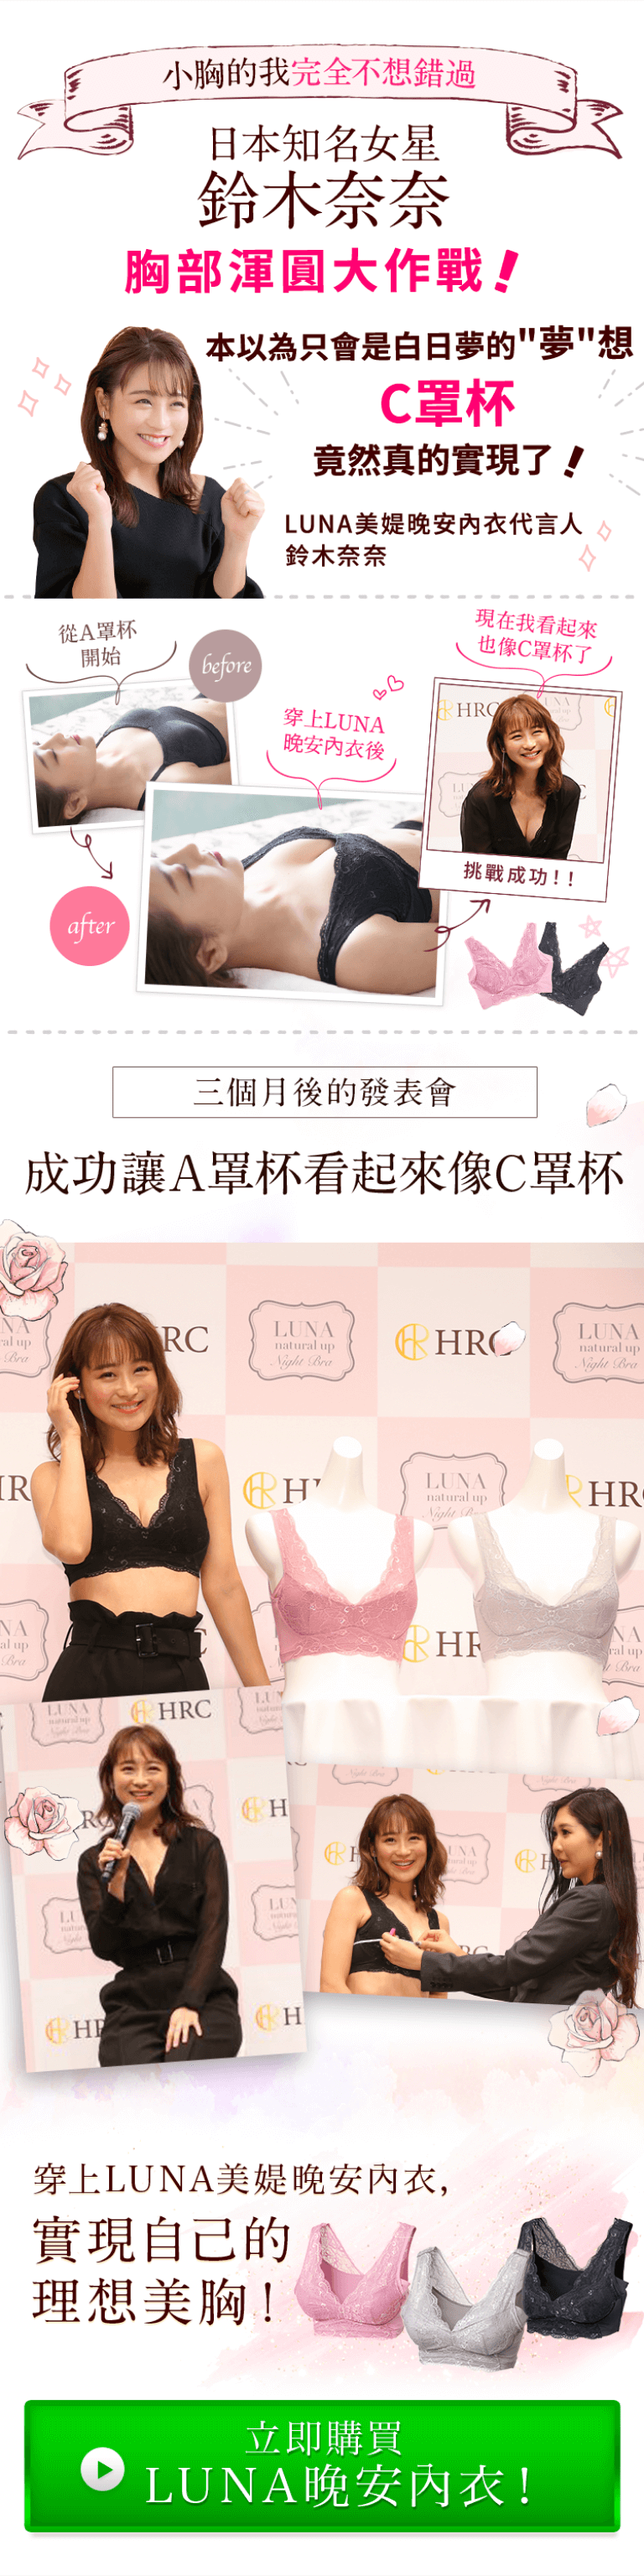
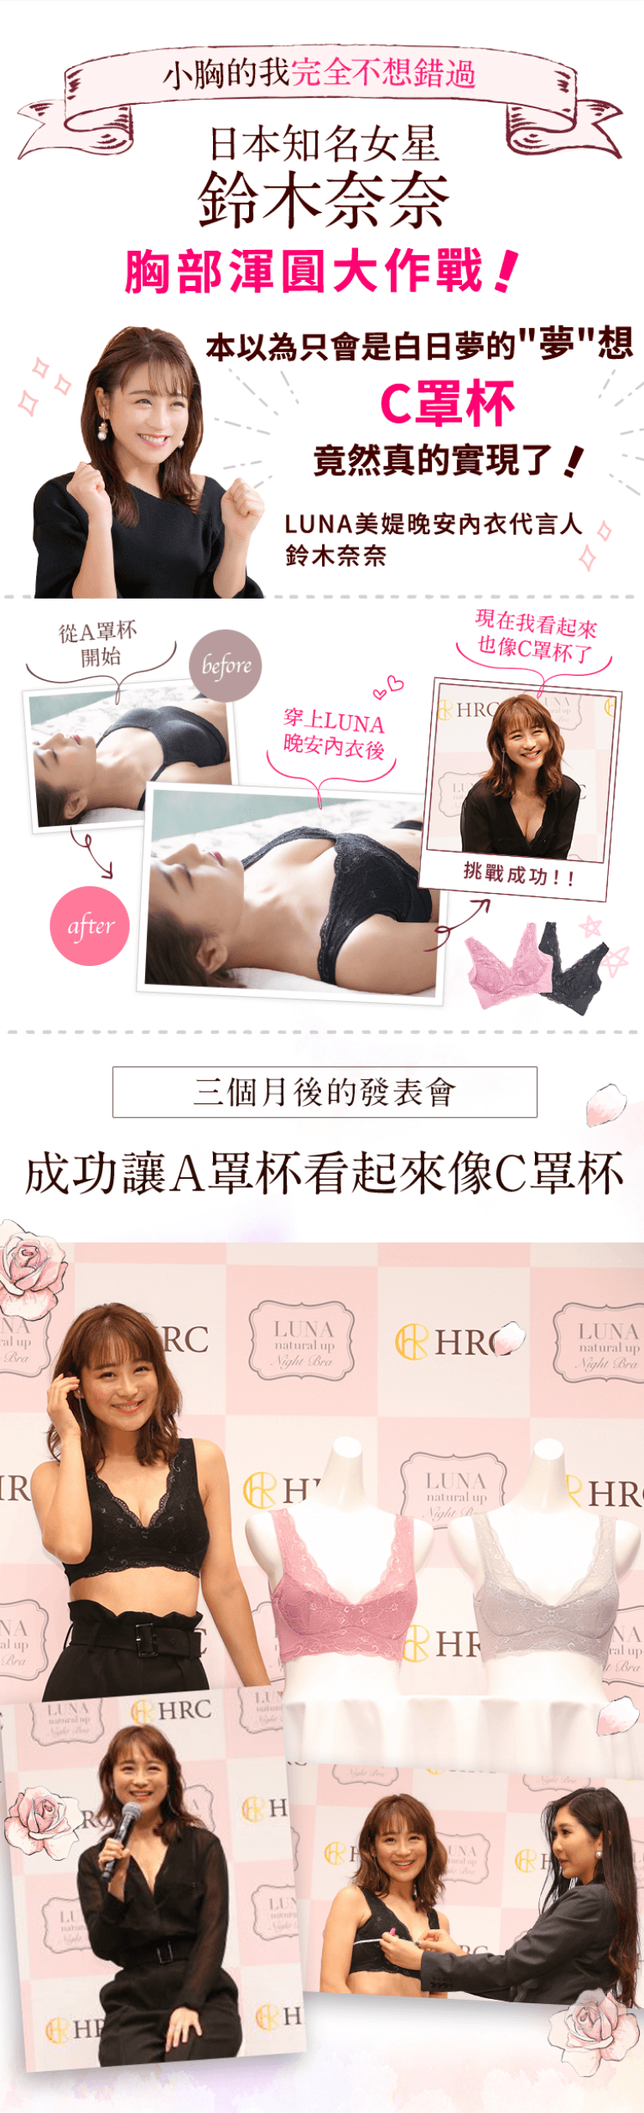
20210208_nana_1 update

diff --git a/index.html b/index.html
@@ -93,12 +93,7 @@
             <div class="main">
                 <div class="PC">
                     <img src="./img/01_main.png" alt="">
-                    <div class="nana2">
-                        <img src="./img/nana_1.png" alt="">
-                        <a href="#buy">
-                            <img src="img/btn/nana_btn.png" class="nana_btn" alt="">
-                        </a>
-                    </div>
+                    <img src="./img/nana_1.png" alt="">
                     <img src="./img/03_patents.png" alt="">
                     <section class="allset_bg pt-5">
                         <div class="PC">
@@ -227,9 +222,7 @@
                 </div>
                 <div class="SP">
                     <img src="./img/SP/SP_01_main.png" alt="">
-                    <a href="#buy">
-                        <img src="./img/SP/SP_nana_1.png" alt="">
-                    </a>
+                    <img src="./img/SP/SP_nana_1.png" alt="">
                     <img src="./img/SP/SP_03_patents.png" alt="">
                     <div class="offer_SP">
                         <a href="#buy">
